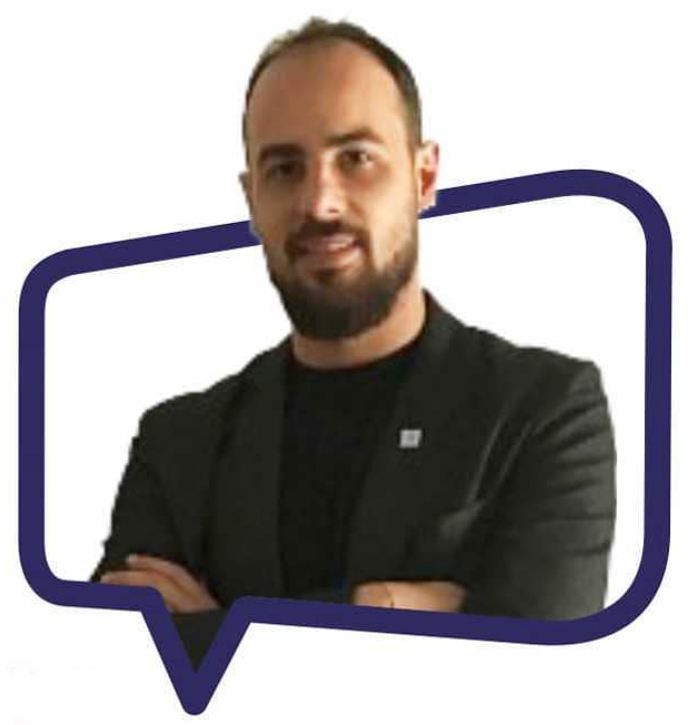
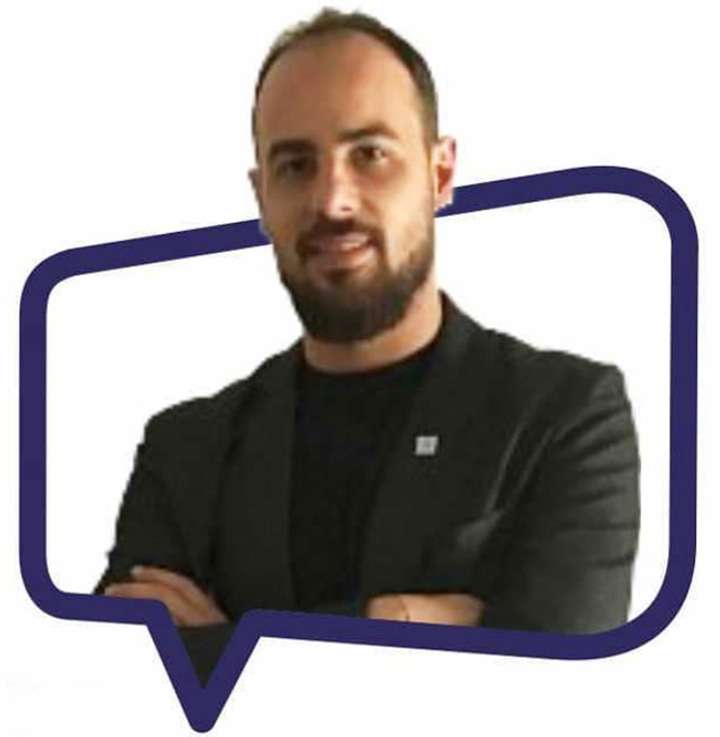
Mejoras disertantes

diff --git a/src/app/componentes/disertantes/disertantes.component.css b/src/app/componentes/disertantes/disertantes.component.css
@@ -19,10 +19,12 @@
 
 .card-img-top{
 	border: none!important;
-	margin:  auto;
-    overflow: hidden;
+	margin: 0 auto;
+	overflow: hidden;
+	max-width: 90%;
+	height: auto;
+	display:block;
 }
-
 
 h3 {
 	font-family: 'barlow-bolditalic',sans-serif; 
@@ -45,4 +47,10 @@ h3 {
     background-color: #ba122b;
 	color: white;
 	border: none;
+}
+
+@media (max-width: 992px) {
+	.card-img-top{
+		max-width: 80%;
+	}
 }
